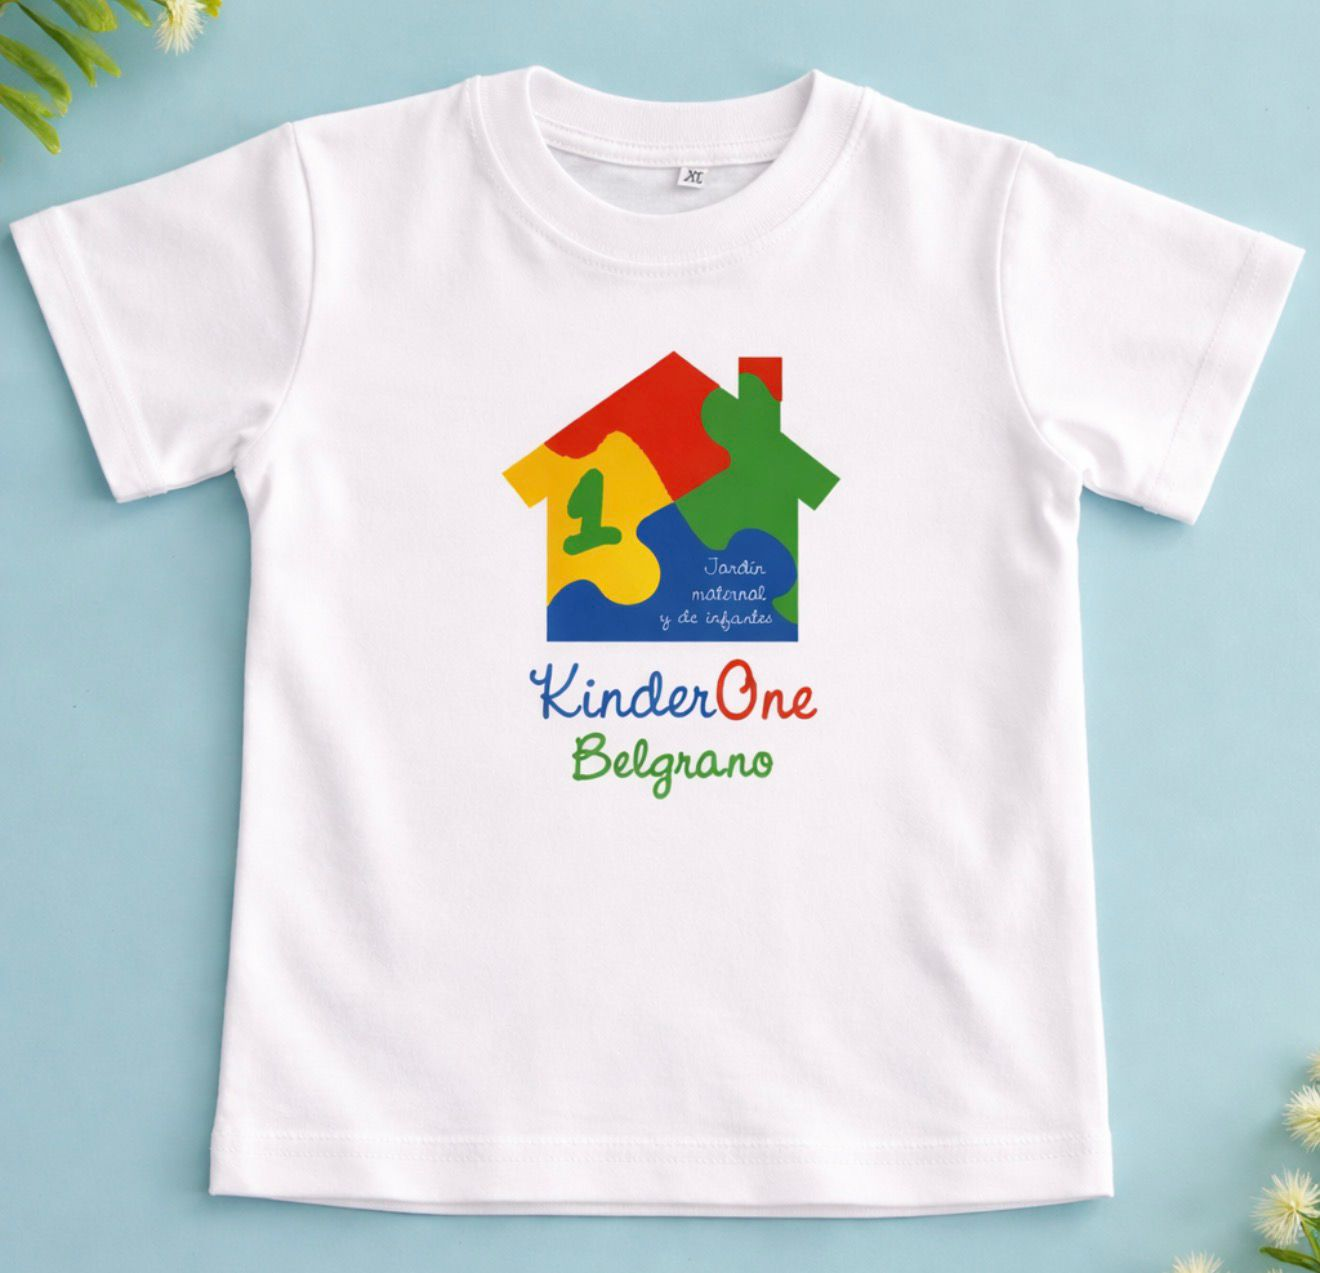
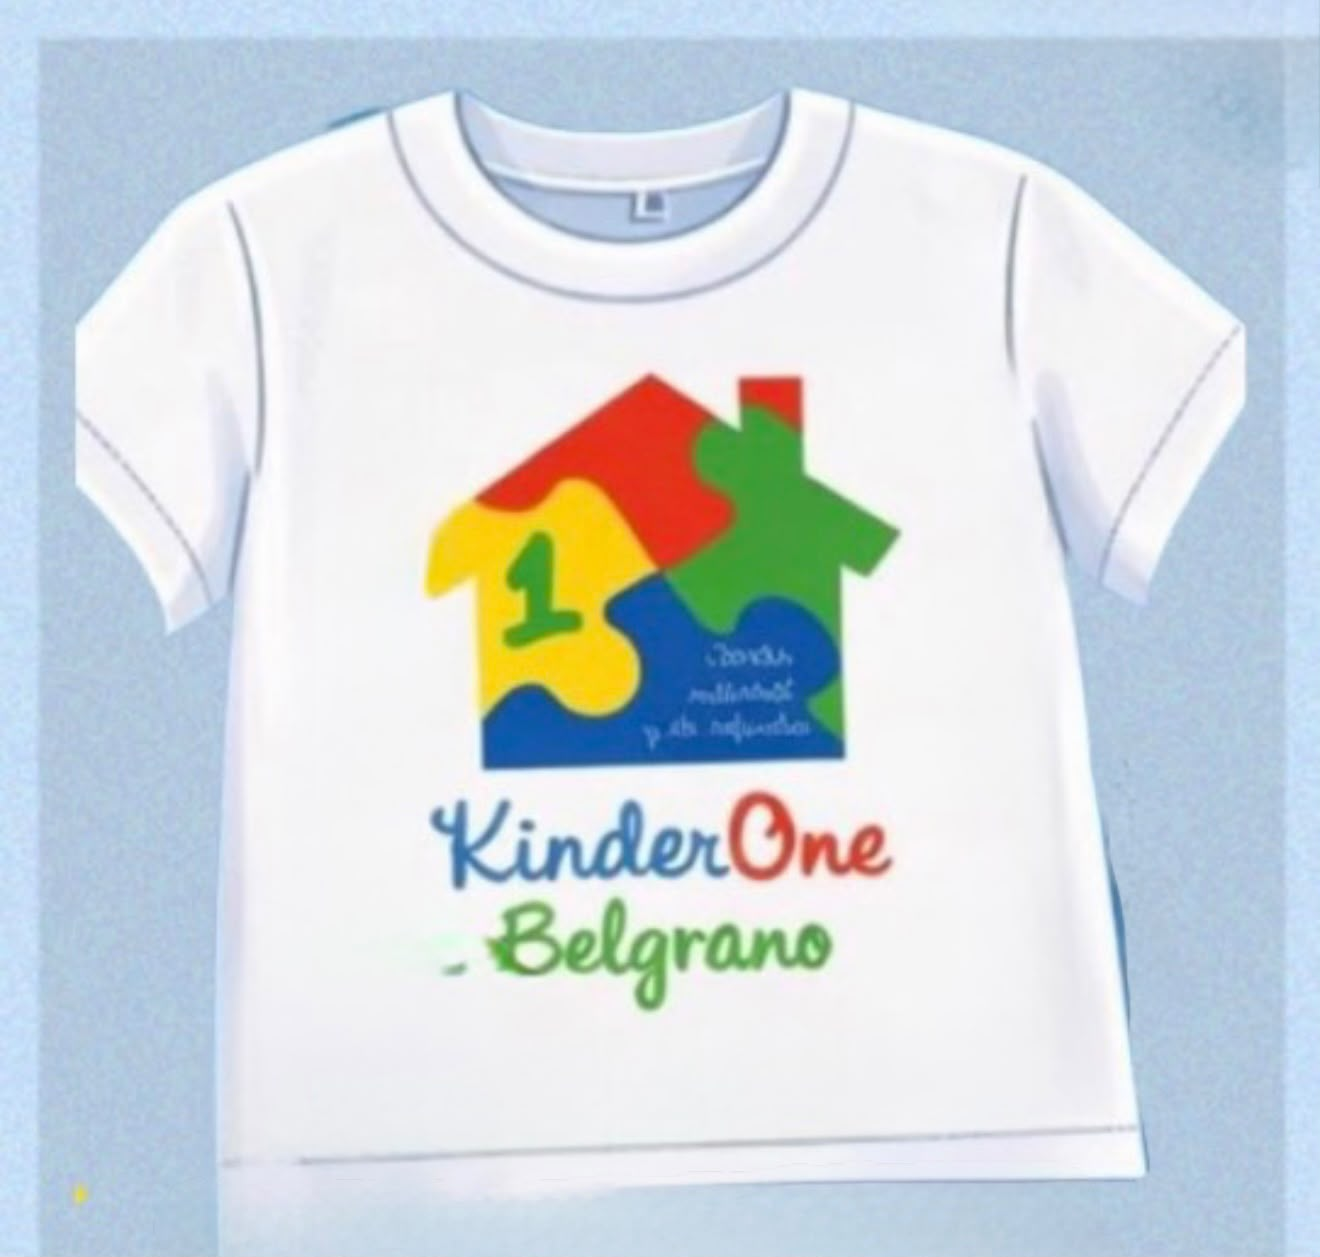
cambio foto de uniformes

diff --git a/components/sections/uniform-section.tsx b/components/sections/uniform-section.tsx
@@ -3,12 +3,7 @@
 import { PuzzlePiece } from "@/components/puzzle-piece"
 import { ShieldCheck, Sparkles, Users, Ruler } from "lucide-react"
 
-const uniformImages = [
-  { src: "/images/uniform/remera.jpeg", alt: "Remera Kinder One" },
-  { src: "/images/uniform/campera.jpeg", alt: "Campera Kinder One" },
-  { src: "/images/uniform/pantalon.jpeg", alt: "Pantalón Kinder One" },
-  { src: "/images/uniform/short.jpeg", alt: "Short Kinder One" },
-]
+
 
 export function UniformSection() {
   return (
@@ -35,7 +30,7 @@ export function UniformSection() {
           </p>
         </div>
 
-        <div className="grid lg:grid-cols-2 gap-12 items-center">
+        <div className="grid lg:grid-cols-2 gap-12 items-start">
           {/* Text Content */}
           <div className="space-y-8">
             <div className="grid sm:grid-cols-2 gap-6">
@@ -74,26 +69,19 @@ export function UniformSection() {
             </div>
           </div>
 
-          {/* Image Grid */}
-          <div className="grid grid-cols-2 gap-4">
-            {uniformImages.map((img, i) => (
-              <div 
-                key={i} 
-                className={`
-                  relative aspect-[3/4] rounded-2xl overflow-hidden shadow-md
-                  transform transition-all duration-300 hover:scale-105
-                  ${i % 2 === 0 ? "rotate-2" : "-rotate-2"}
-                  hover:rotate-0
-                `}
-              >
-                <img 
-                  src={img.src} 
-                  alt={img.alt} 
-                  className="w-full h-full object-cover"
-                />
-                <div className="absolute inset-0 bg-black/10 hover:bg-black/0 transition-colors" />
-              </div>
-            ))}
+          {/* Single Image Container */}
+          <div className="relative flex justify-center items-center lg:pl-6">
+            {/* Background design elements */}
+            <div className="absolute -inset-4 bg-gradient-to-tr from-puzzle-blue/10 via-puzzle-green/10 to-puzzle-yellow/10 rounded-[2.5rem] transform -rotate-2 scale-102 filter blur-sm pointer-events-none" />
+            <div className="absolute -inset-4 border-2 border-dashed border-puzzle-green/30 rounded-[2.5rem] transform rotate-1 scale-101 pointer-events-none" />
+            
+            <div className="relative w-full max-w-xl lg:max-w-2xl aspect-[1312/1199] rounded-[2rem] overflow-hidden shadow-2xl border-8 border-white transform transition-all duration-500 hover:scale-[1.02] hover:rotate-1 group bg-white">
+              <img 
+                src="/images/uniforme.jpeg" 
+                alt="Uniforme Escolar Kinder One" 
+                className="w-full h-full object-cover transition-transform duration-700 group-hover:scale-105"
+              />
+            </div>
           </div>
         </div>
       </div>
